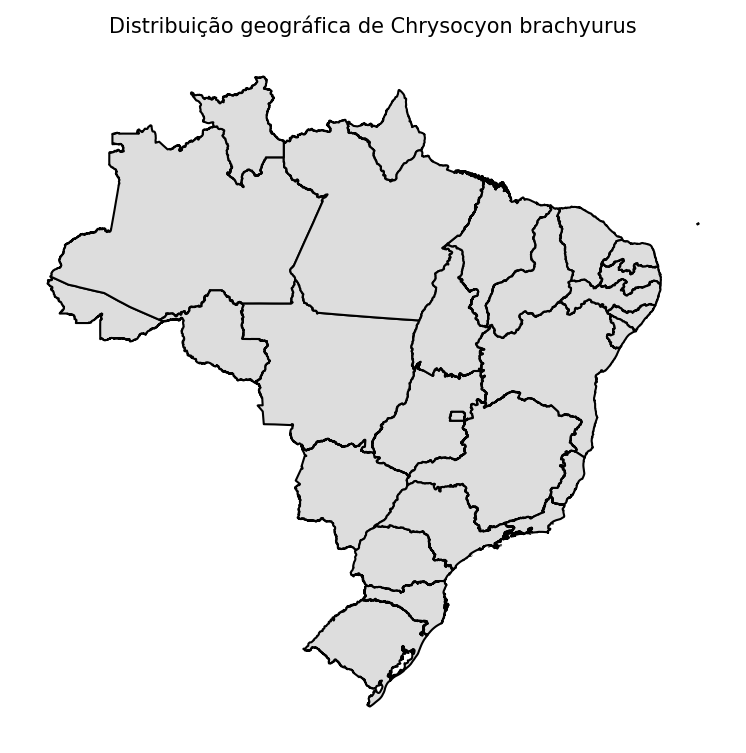
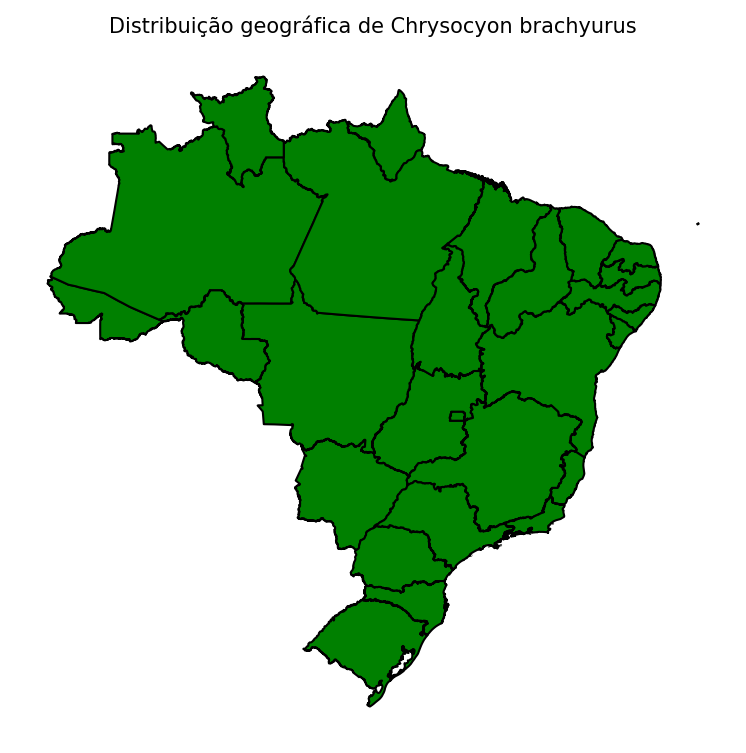
fix: consertamos a parte de pintar a região

diff --git a/core/templates/resultado_pesquisa.html b/core/templates/resultado_pesquisa.html
@@ -33,8 +33,8 @@
                             <img src="/media/{{ mapa_path }}" alt="Mapa de distribuição" class="mapa-estado">
                         </div>
                     {% else %}
-                        <p><em>Sem local de incidência registrado.</em></p>
-                    {% endif %}
+                    <p class="sem-local"><em>Sem local de incidência registrado.</em></p>
+                    {% endif %} 
 
 
                     <p><strong>Bioma:</strong> {{ animal.bioma }}</p>

diff --git a/core/views.py b/core/views.py
@@ -208,6 +208,65 @@ def gerar_mapa_animal(regioes, nome_cientifico):
         regioes_estados_a_pintar = []
         
         if isinstance(regioes, str):
+            # ⚠ NOVO: Usa re.split para dividir por VÍRGULA ou BARRA VERTICAL
+            # Isso trata entradas como "Sul, Sudeste" E "|Centro-Oeste|Nordeste|Sul|"
+            
+            # Divide e remove caracteres indesejados (incluindo as barras verticais se não forem usadas como separadores)
+            partes_originais = re.split(r'[,|]', regioes)
+            partes_limpas = [unidecode(r.strip().upper()) for r in partes_originais if r.strip()]
+            
+            # 2. Mapeia as partes para a lista final de estados
+            for parte in partes_limpas:
+                # Se for uma região definida (ex: "SUL"), adiciona todos os seus estados
+                if parte in MAPA_REGIOES_BRASIL:
+                    regioes_estados_a_pintar.extend(MAPA_REGIOES_BRASIL[parte])
+                # Se não for uma região, assume que é um nome de estado e o adiciona
+                else:
+                    regioes_estados_a_pintar.append(parte)
+
+        # Remove duplicatas e cria o conjunto final de estados a pintar
+        regioes_set = set(regioes_estados_a_pintar)
+        
+        # 3. Pinta o mapa
+        # Pinta de 'green' se o estado normalizado estiver no nosso conjunto de regiões
+        brasil["color"] = brasil["name_norm"].apply(
+            lambda uf: "green" if uf in regioes_set else "#DDDDDD"
+        )
+
+        fig, ax = plt.subplots(figsize=(8, 6))
+        brasil.plot(ax=ax, color=brasil["color"], edgecolor="black")
+        ax.set_title(f"Distribuição geográfica de {nome_cientifico}", fontsize=10)
+        ax.axis("off")
+
+        # Caminho do mapa
+        mapa_path = pasta / f"mapa_{nome_cientifico.replace(' ', '_')}.png"
+        plt.savefig(mapa_path, bbox_inches="tight", dpi=150)
+        plt.close(fig)
+        print(f"[OK MAPA] Mapa salvo em {mapa_path}")
+
+        # 🔹 Retorna o caminho relativo para o template
+        return f"mapas/{mapa_path.name}"
+
+    except Exception as e:
+        print(f"[ERRO MAPA] Falha ao gerar mapa de {nome_cientifico}: {e}")
+        return None
+    """Gera mapa destacando estados onde o animal ocorre.
+       Aceita regiões (ex: 'SUL') ou estados (ex: 'PARANA, SAO PAULO')."""
+    try:
+        pasta = Path("media/mapas")
+        pasta.mkdir(parents=True, exist_ok=True)
+
+        # ✅ Shapefile do Brasil (por estado)
+        url_geojson = "https://raw.githubusercontent.com/codeforamerica/click_that_hood/master/public/data/brazil-states.geojson"
+        brasil = gpd.read_file(url_geojson)
+
+        # Corrige nomes e acentuação
+        brasil["name_norm"] = brasil["name"].apply(lambda x: unidecode(x).upper())
+
+        # 1. Normaliza e processa o campo 'regioes'
+        regioes_estados_a_pintar = []
+        
+        if isinstance(regioes, str):
             # Divide por vírgula e remove acentos/limpa espaços/remove "|", tratando a entrada
             partes_originais = [unidecode(r.strip().upper()).replace("|", "") for r in regioes.split(",") if r.strip()]
             
